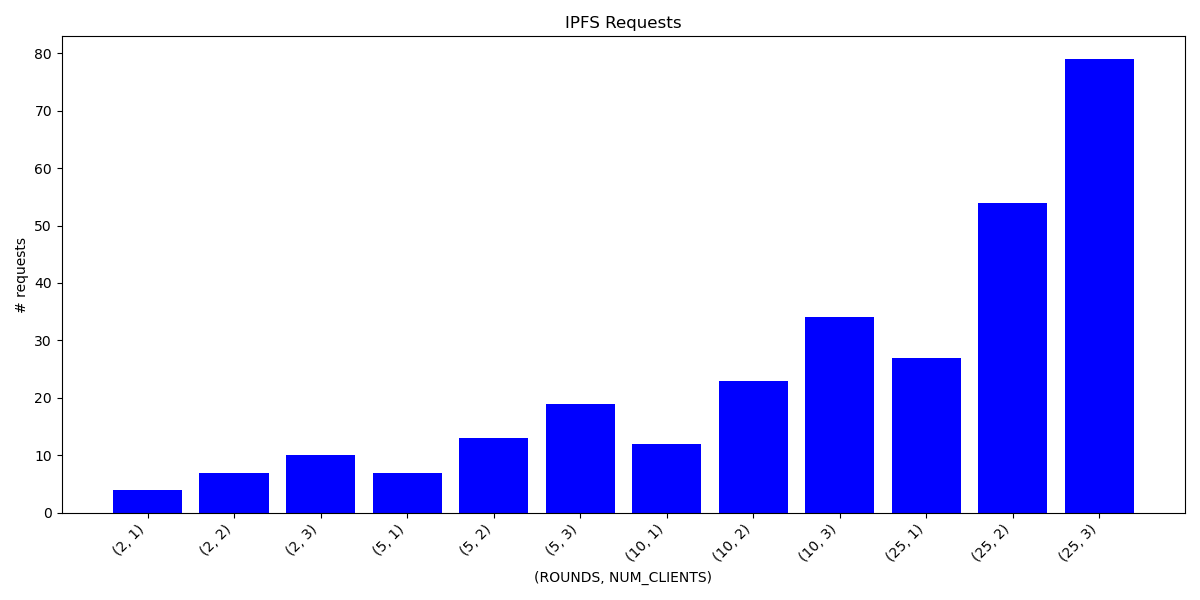
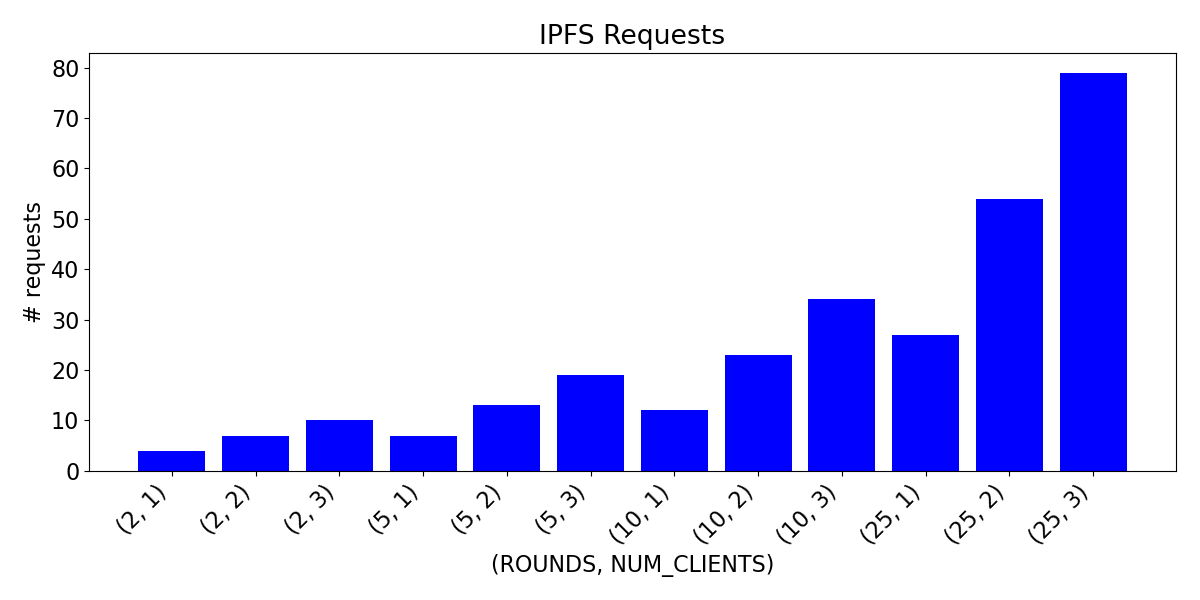
Change font size and name

diff --git a/plot_results.py b/plot_results.py
@@ -3,6 +3,8 @@ import numpy as np
 
 plot_path = "plots/"
 
+plt.rcParams.update({'font.size': 16})
+
 def parse_log(file_path):
     data = []
     current_config = None
@@ -106,7 +108,7 @@ def plot_mean_time_diff(data_FL, data_BCFL, data_FLChan, event, title):
     x = np.arange(len(labels))
 
     plt.bar(x - width, mean_times_BCFL, width, label='Mean Times BCFL', color='orange')
-    plt.bar(x, mean_times_FLChan, width, label='Mean Times FLChan', color='blue')
+    plt.bar(x, mean_times_FLChan, width, label='Mean Times StateFL', color='blue')
     plt.bar(x + width, mean_times_FL, width, label='Mean Times FL', color='gray')
 
     plt.title(title)
@@ -131,7 +133,7 @@ def plot_channel_time(data, title):
     plt.bar(x + width/2, settling_times, width, label='Settle channel', color='blue')
     plt.title(title)
     plt.xlabel('(ROUNDS, NUM_CLIENTS)')
-    plt.ylabel('Mean Channel Handling Time (seconds)')
+    plt.ylabel('Time (seconds)')
     plt.xticks(x, labels, rotation=45, ha='right')
     plt.tight_layout()
     plt.legend()
@@ -166,15 +168,15 @@ log_data_FL = parse_log("logs/res_plot/results_FL.txt")
 log_data_FLChan = parse_log("logs/res_plot/results_chanFL.txt")
 log_data_BCFL = parse_log("logs/res_plot/results_BCFL.txt")
 
-plot_mean_time_diff(log_data_FL, log_data_BCFL, log_data_FLChan, "Training", 'Mean Client Training Time: FL vs BCFL vs FLChan')
-plot_mean_time_diff(log_data_FL, log_data_BCFL, log_data_FLChan, "Aggregating", 'Mean Aggregation Time: FL vs BCFL vs FLChan')
-plot_mean_time_diff(log_data_FL, log_data_BCFL, log_data_FLChan, "Round", 'Mean Round Time: FL vs BCFL vs FLChan')
-plot_mean_time_diff(log_data_FL, log_data_BCFL, log_data_FLChan, "FL", 'Federated Learning Time: FL vs BCFL vs FLChan')
-plot_mean_time_diff(log_data_FL, log_data_BCFL, log_data_FLChan, "Experiment", 'E2E Time: FL vs BCFL vs FLChan')
+plot_mean_time_diff(log_data_FL, log_data_BCFL, log_data_FLChan, "Training", 'Mean Client Training Time: FL vs BCFL vs StateFL')
+plot_mean_time_diff(log_data_FL, log_data_BCFL, log_data_FLChan, "Aggregating", 'Mean Aggregation Time: FL vs BCFL vs StateFL')
+plot_mean_time_diff(log_data_FL, log_data_BCFL, log_data_FLChan, "Round", 'Mean Round Time: FL vs BCFL vs StateFL')
+plot_mean_time_diff(log_data_FL, log_data_BCFL, log_data_FLChan, "FL", 'Federated Learning Time: FL vs BCFL vs StateFL')
+plot_mean_time_diff(log_data_FL, log_data_BCFL, log_data_FLChan, "Experiment", 'E2E Time: FL vs BCFL vs StateFL')
 
 plot_number_of_requests(log_data_FLChan, "ipfs", 'IPFS Requests')
 plot_number_of_requests(log_data_FLChan, "perun", 'Perun Requests')
 
 
 
-plot_channel_time(log_data_FLChan, 'Mean Time to Handle Channel Opening and Closing')
+plot_channel_time(log_data_FLChan, 'Time to Handle Channel Opening and Closing')
